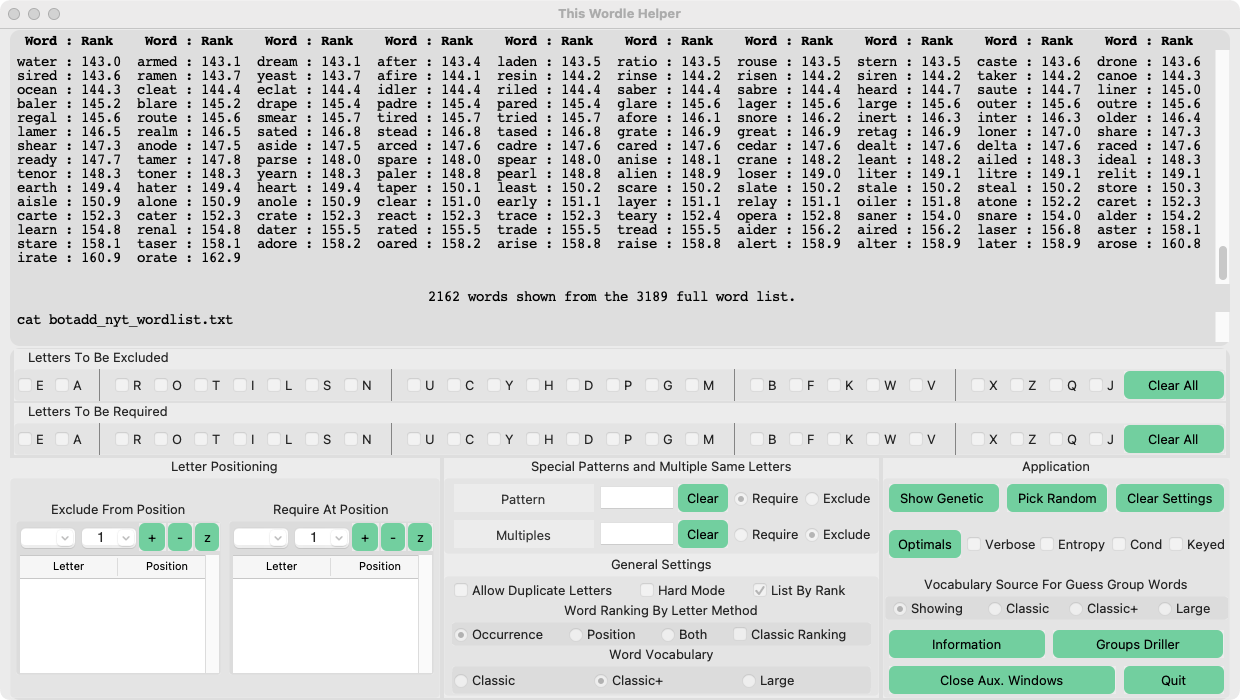
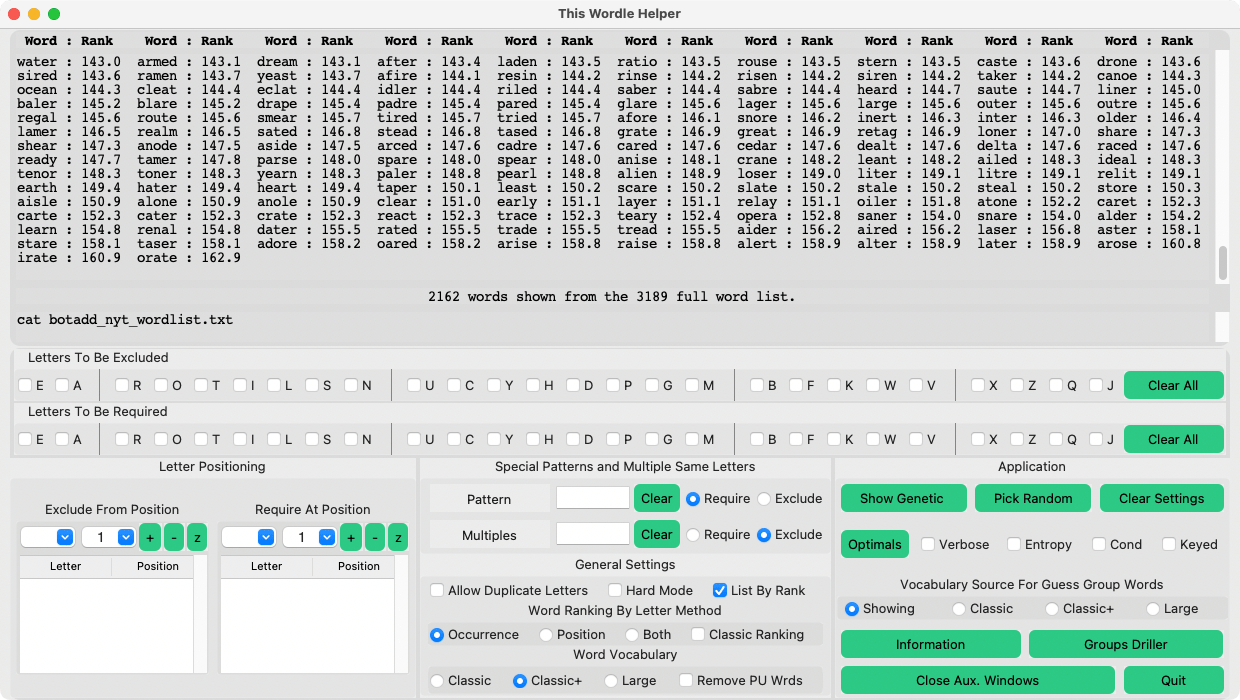
Added brief PU documentation

diff --git a/README.md b/README.md
@@ -215,6 +215,8 @@ Special **Pattern** allows one to quickly introduce a custom require or exclude 
 
 * Another change the NYT has made is to censure some **Classic** words. Thus, some **Classic** words that were originally solution candidates have been removed from the possible solutions list. These words are still acceptable play words but will never be a solution and will never show up in a **WordleBot** remaining solutions list. These words will show up in **The Wordle Helper**. When using the **Classic+** word vocabulary for possible solution candidates, (Make sure **Allow Duplicate Letters** is checked.), the remaining words should equal what the **WordleBot** indicates.
 
+* The **Remove PU Words** option removes the previously used (PU) solutions from the solutions list. Doing so will result in at least a one guess advantage. The PU words list changes every day. This list will always be incomplete unless you update it daily. The PU words list is the file "pu_wordlist.txt" in the worddata folder.
+
 * If **The Wordle Helper** shows more words than **WordleBot** by a word or so, then there is a censured word or there is an issue with multiple same letters.
 * If **The Wordle Helper** shows fewer words than **WordleBot**, then **The Wordle Helper** is missing some transferred words or there is an issue with multiple same letters.
 
